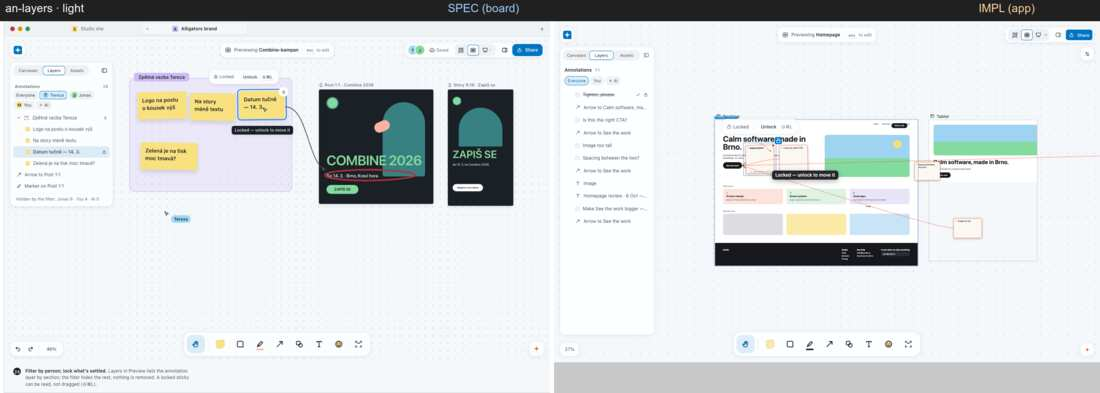
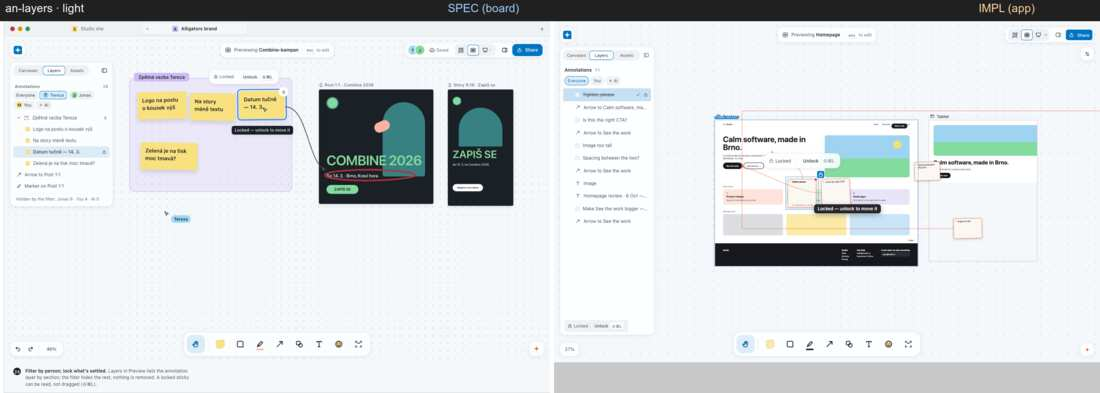
p8-r11-15: round 11 evidence — 15 an-follow / an-layers / an-video re-shot, 12 ia-assets-find dark; fix-r11-15.md

diff --git a/.ai/plans/notes/v2-evidence/phase8-fidelity/15-annotations/fix-r11-15.md b/.ai/plans/notes/v2-evidence/phase8-fidelity/15-annotations/fix-r11-15.md
@@ -1,0 +1,23 @@
+# fix-r11-15 — round 11, canvas 15 Annotations (branch p8-r11-15) + one re-shoot on 12
+
+Three D7 "differs" (critic-bar5.md): an-follow, an-layers, an-video. Fail-first tests for every product change (red before the code; the zoom chip test also reverted once).
+
+## Product
+
+| id | change | files | test |
+| --- | --- | --- | --- |
+| an-follow | While an artboard is in hand and a bound elbow arrow's straight line would cross another artboard, the layer draws a second chip beside "the straight line would cross X": **"Let go — the shortest clean path"** (the board's dark route bubble, above the middle of the longest segment of the live route). Drag only; the settled route has none. Both chips are world-space nodes, so they now counter-scale by 1/zoom and keep the page's size (at 26 % the old chip was 3 px tall). | `annotations/ui/ride.ts` (`LiveArrow.route`, `routeBubbleAt`, sink), `annotations-layer.tsx` (chip CSS + the sink's zoom getter) | `annotations-reroute-live.test.tsx` (4 new/extended) |
+| an-layers | **Product bug.** Nothing carried the canvas's selection to the Preview Layers list: the canvas posts `annotation-selection`, the shell stores it per canvas (`annotation-asks.js`, read only by the AI chat's scope chip), and `AnnotationListHost` listened to `maude:annotation-selection`, which nobody dispatches. A selected sticky (locked or not) never lit its row. The list now follows the same per-canvas store (`annotationScopeOf` / `subscribeAnnotationSelection`). | `client/v2/annotations/annotation-list.jsx` | `annotation-list-render.test.tsx` |
+| an-video | The p8-r11-10 read-only Preview strip also marks the **notes pinned to the video** (`timeRange`): a bar in the note's paper from its start to its end (hex fills only, else the default paper), the header reads "2 notes · 1 comment" (comments-only keeps "N comments on this video"), the note at the playhead wears the accent ring, a click seeks to its start. The host reads the canvas board through `useBoard` (the same read as the Edit ruler marks). No second strip. | `client/v2/timeline/comment-strip{,-model,-host}.{jsx,js}`, `marks.jsx` (`useBoard` exported), `glyphs.jsx` (`note`), `timeline.css` | `p8-r11-15-notes-strip.test.tsx` (model, render, host) |
+
+**Not changed (decision S4.10 stands):** only Elbow arrows route around artboards; Straight and Curved follow their ends. The an-follow frame showed thin dashed curves because the harness pressed the Elbow button on "the last arrow" and silently missed, not because Elbow failed. The bound arrows are now seeded `line: 'elbow'`, as the board's own rule says ("Elbow arrows route around other artboards live").
+
+## Harness (`_r11-15-harness-g4/`)
+
+- `run.sh 15 <theme>`: `_d7-harness-g4`'s `s15.mjs`, group b only, with the an-follow arrows born Elbow and a longer held drag. `run.sh 15v`: an-video on the **real 30 s Recruiting Trailer** (g4 lib of `_d7-harness-g3`, `g4v/s15v.mjs`): two notes pinned (0:12–0:15, 0:21–0:24) through the verb with `timeRange`, one timed comment (0:25), Preview, the playhead put on the first note through the strip. `run.sh 12`: `s12` dark only.
+- Client touched: release build, `check-client-boots-source.mjs` and `opening-card-clears.mjs` green; `dist/` reverted.
+
+## Open
+
+- an-follow: the chip names Tablet where the board says Mobile (the first artboard the straight line crosses); the board's "over Mobile · 160 ms" suffix on the bubble is not drawn. Edit-mode chrome (inspector) still frames the shot.
+- an-video: the AI-authored notes carry the spark mark; no author line / avatar chip on the notes (fixture).

diff --git a/.ai/plans/notes/v2-evidence/phase8-fidelity/15-annotations/INDEX.md b/.ai/plans/notes/v2-evidence/phase8-fidelity/15-annotations/INDEX.md
@@ -498,3 +498,13 @@ Shot on the Mac mini (`scripts/remote-lane.sh`) with its installed Google Chrome
 | `an-vote` | light | re-shot | spec reused (board unchanged since the stage-A shot) |
 | `an-vs` | dark | re-shot | spec reused (board unchanged since the stage-A shot) |
 | `an-vs` | light | re-shot | spec reused (board unchanged since the stage-A shot) |
+
+## Round 11 (p8-r11-15) — an-follow, an-layers, an-video re-shot (both themes)
+
+Re-shot 6 of 68 pairs on the p8-r11-15 tip (release-built client, Mac mini + Google Chrome, harness `_r11-15-harness-g4/`). Everything else in this folder is unchanged. Full-size pairs: last line of `full-size-path.txt` ("round 11: ..."). Product changes behind the three frames are in `fix-r11-15.md`. No match judged here.
+
+| id | light | dark | note |
+| --- | --- | --- | --- |
+| `an-follow` | re-shot | re-shot | the bound arrows are seeded Elbow (the earlier harness pressed the Elbow button and missed, so the frame kept curves); mid-drag the route goes round Tablet and Mobile, the "the straight line would cross …" chip and the new "Let go — the shortest clean path" bubble are drawn at page size |
+| `an-layers` | re-shot | re-shot | the selected locked sticky's row ("Tighter, please") is lit with its Locked pill below the list |
+| `an-video` | re-shot | re-shot | now on real footage (the 30 s Alligators Recruiting Trailer, Preview): "0:12" pin chip on the note, the strip under the picture reads "2 notes · 1 comment" with a bar per note and a face at 0:25 |

diff --git a/.ai/plans/notes/v2-evidence/phase8-fidelity/12-import-and-assets/INDEX.md b/.ai/plans/notes/v2-evidence/phase8-fidelity/12-import-and-assets/INDEX.md
@@ -187,3 +187,5 @@ Re-shot 6 of 38 pairs, 5 changed (ia-assets-find, ia-placed, ia-photo-inspector 
 | ia-assets-find | re-shot (pixel-identical to D7: the fix was dark only) | re-shot | `s12` |
 | ia-placed | re-shot | re-shot | `s12h` (the first `s12` try logs `no filechooser`; a later scenario wins) |
 | ia-photo-inspector | re-shot | re-shot | `s12c7` |
+
+Round 11 (p8-r11-15) — `ia-assets-find` dark re-shot once more on the p8-r11-15 tip (the dark contrast rule was rescoped in `10c7d0b3d`; scenario `s12`, harness `_r11-15-harness-g4` run 12). The light pair and everything else in this folder is unchanged. Full-size pair: last line of `full-size-path.txt` ("round 11 (p8-r11-15): ..."). No match judged here.
